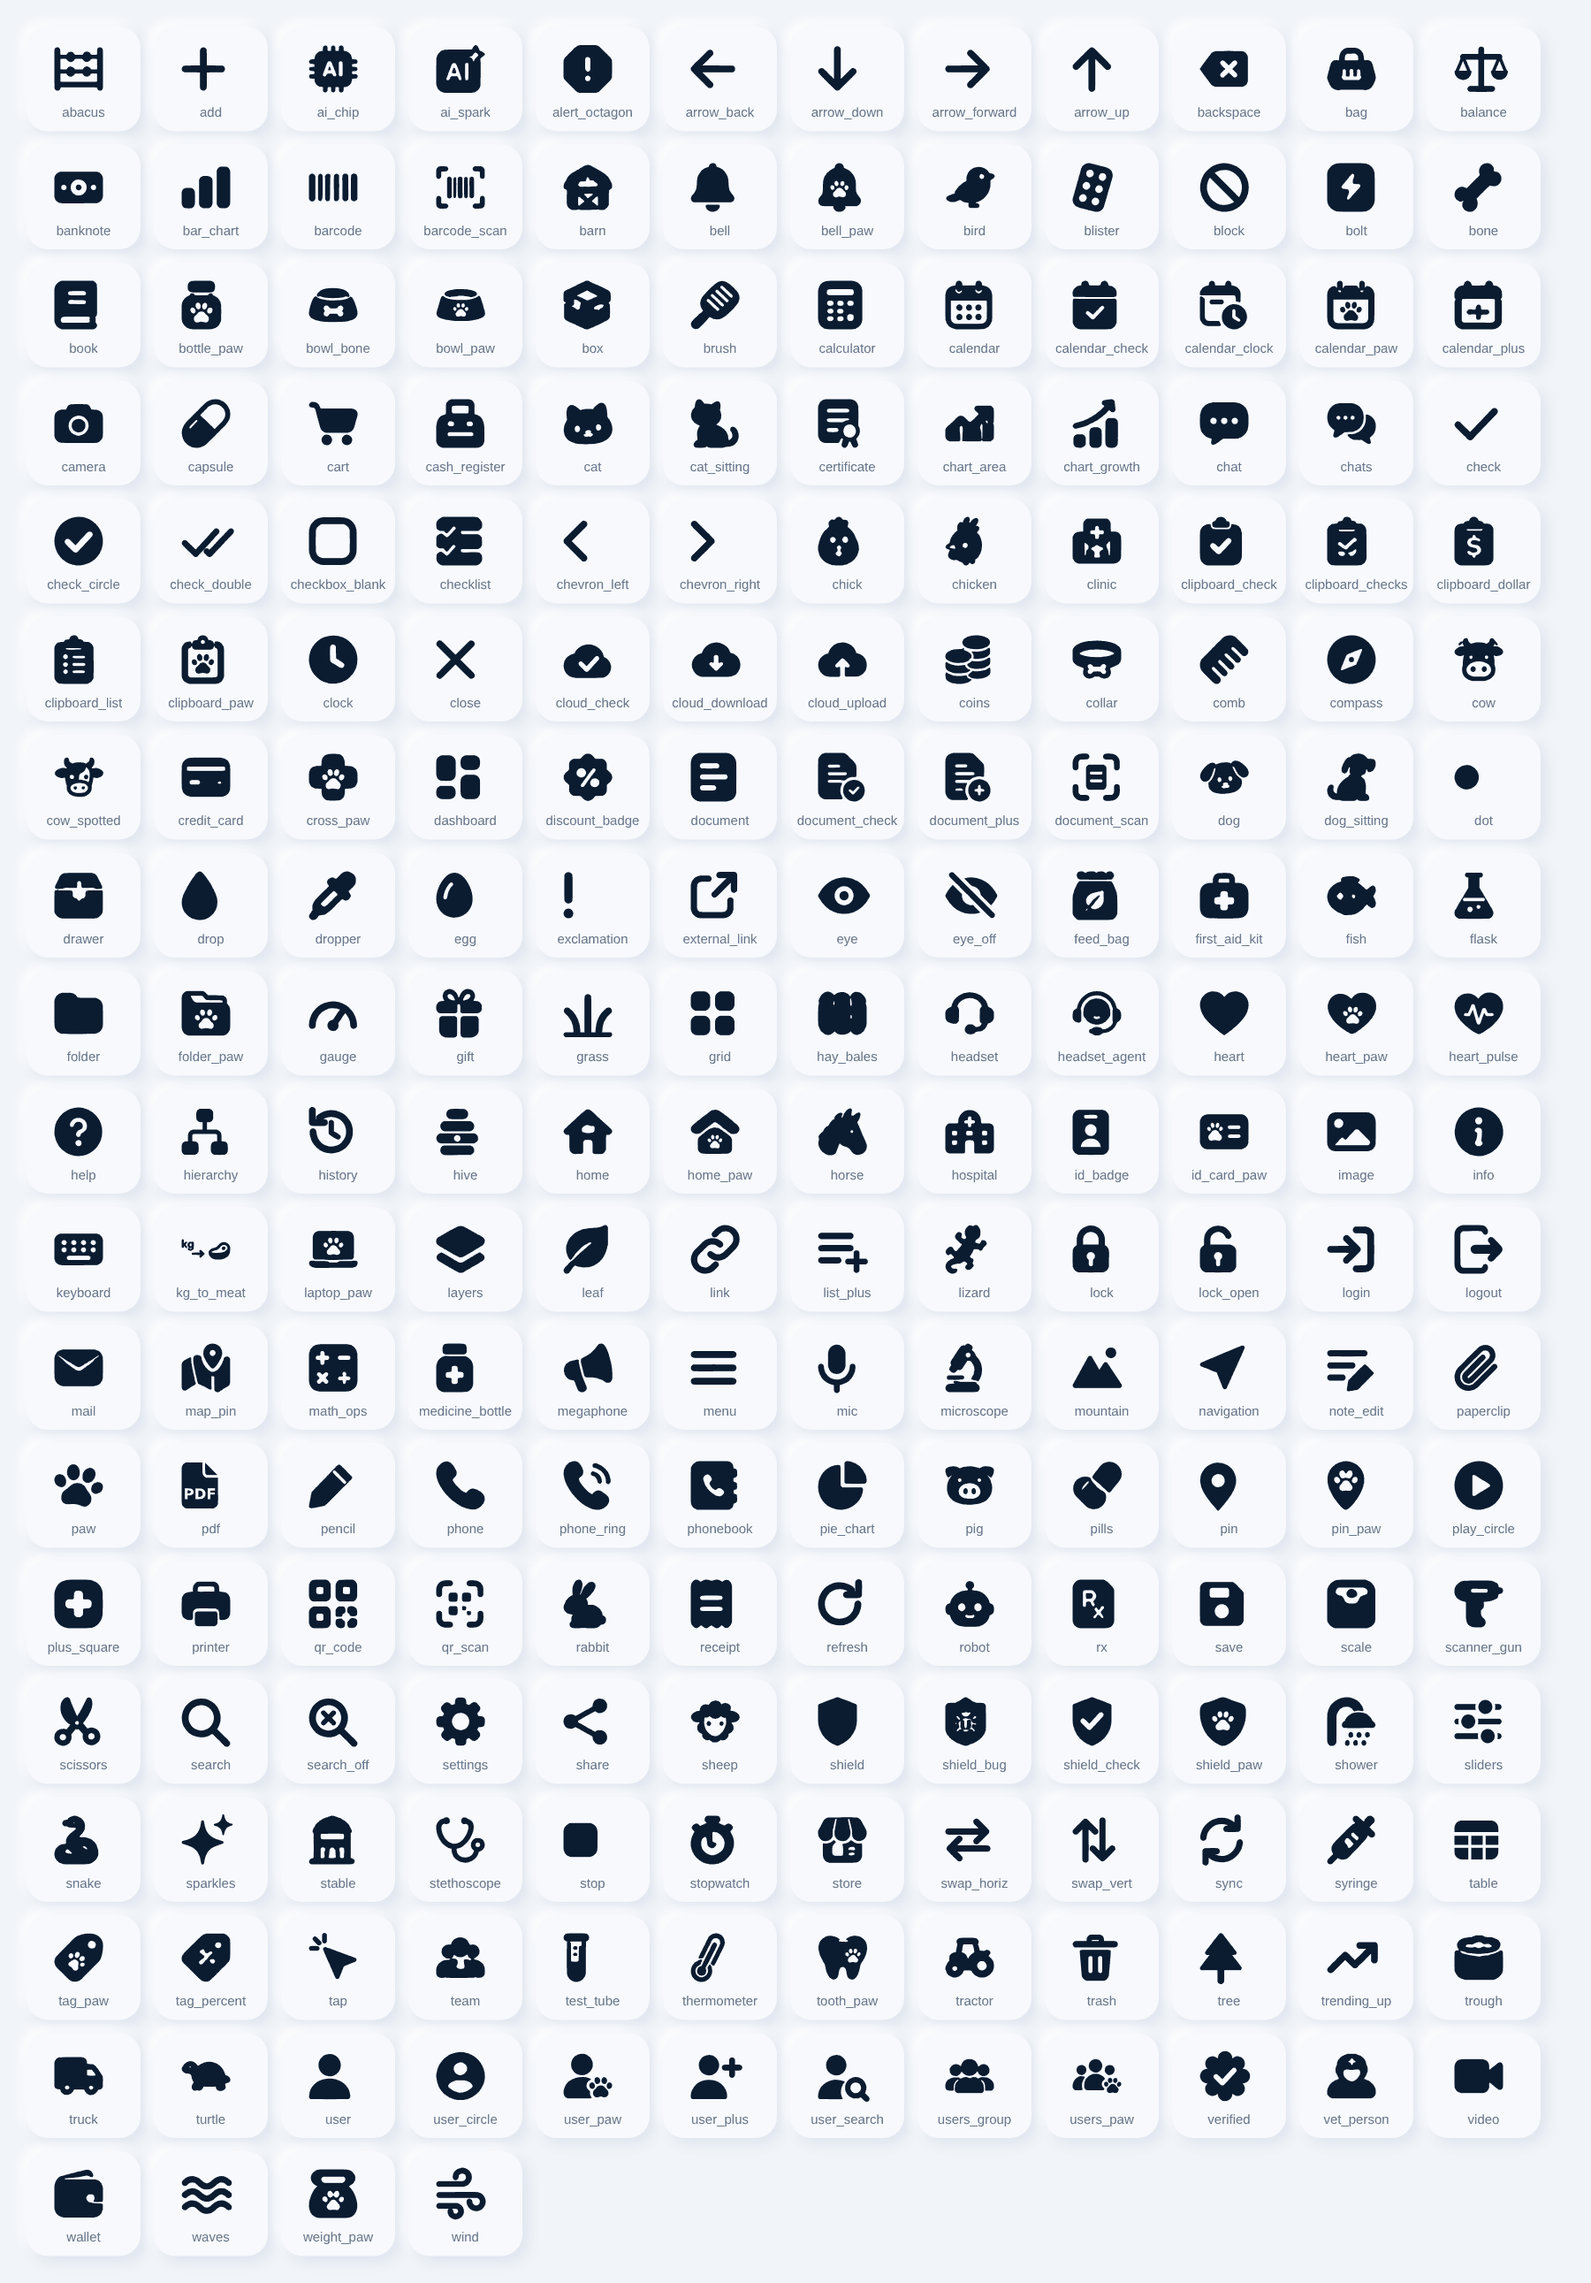
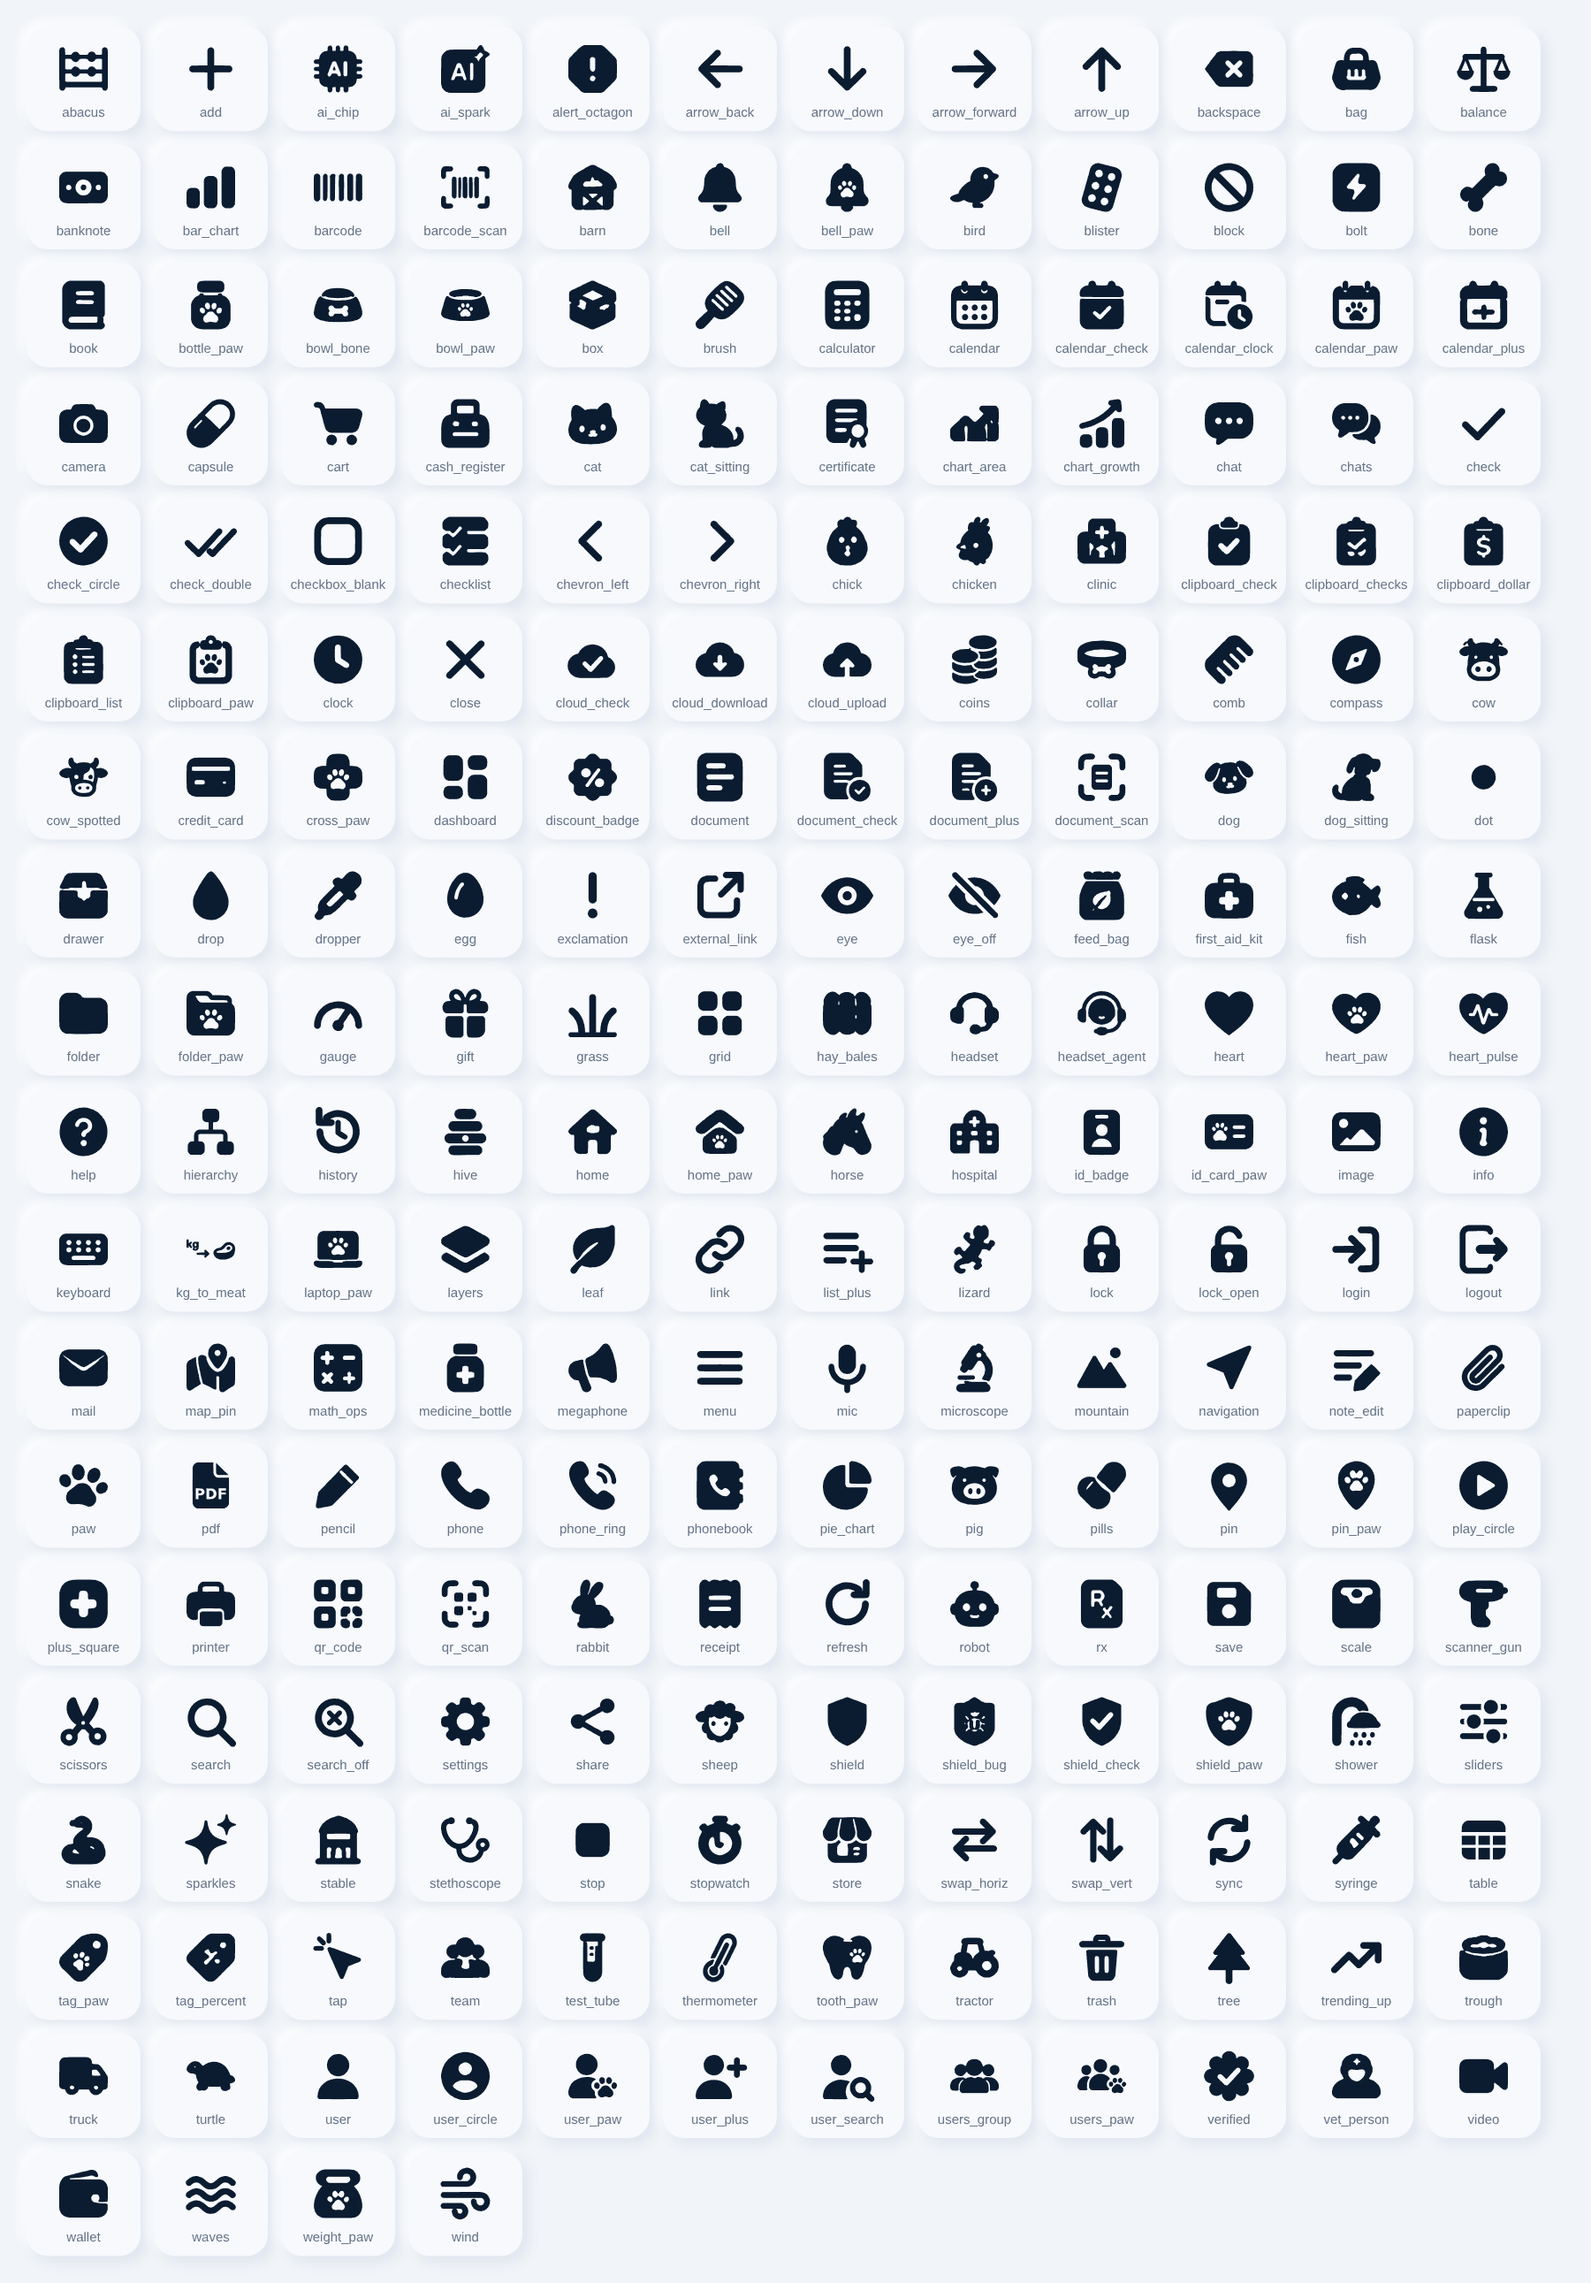
Iconos: salian corridos a la izquierda; la fuente declaraba margen 0
Ale lo vio en el telefono: cada icono quedaba unos 2 puntos a la izquierda
de su etiqueta y de su recuadro.

La tabla hmtx de VetIcons.ttf declaraba margen izquierdo 0 para todos los
glifos, pero el dibujo empieza en x=100 de 1200 (el margen de 2 sobre 24).
Con esa contradiccion el motor de texto desplaza el contorno hasta pegarlo
al borde. build_font.py ahora declara el xMin real de cada glifo.

No lo detecte antes porque solo mire capturas a ojo, y 2 de 24 no se nota
en una hoja de catalogo. La prueba nueva pinta el icono de verdad y mide
donde cae la tinta: con la fuente anterior el centro de la huella caia en
40 de 96; ahora cae en 48.

Verificado: flutter analyze sin incidencias y la suite completa aprobada.

Claude-Session: https://claude.ai/code/session_01AKjGGoZ1axotp7F6hu1tVV

diff --git a/test/vet_icons_test.dart b/test/vet_icons_test.dart
@@ -1,7 +1,10 @@
 import 'dart:convert';
 import 'dart:io';
+import 'dart:ui' as ui;
 
 import 'package:flutter/material.dart';
+import 'package:flutter/rendering.dart';
+import 'package:flutter/services.dart';
 import 'package:flutter_test/flutter_test.dart';
 import 'package:vetdosis_pro/vet_ui/vet_icons.dart';
 
@@ -54,5 +57,65 @@ void main() {
     expect(text.text.style?.fontFamily, 'VetIcons');
     expect(text.text.style?.color, const Color(0xFF7C4DFF));
     expect(text.text.style?.fontSize, 32);
+  });
+
+  // En telefono los iconos salian corridos a la izquierda: la fuente declaraba
+  // margen izquierdo 0 y el motor pegaba cada dibujo al borde. Se pinta de
+  // verdad y se mide donde cae la tinta.
+  testWidgets('el dibujo queda centrado en su caja', (tester) async {
+    await tester.runAsync(
+      () => (FontLoader(
+        'VetIcons',
+      )..addFont(rootBundle.load('assets/fonts/VetIcons.ttf'))).load(),
+    );
+    const size = 96.0;
+    for (final name in const ['paw', 'home', 'calendar', 'calculator']) {
+      final key = GlobalKey();
+      await tester.pumpWidget(
+        Directionality(
+          textDirection: TextDirection.ltr,
+          child: Center(
+            child: RepaintBoundary(
+              key: key,
+              child: ColoredBox(
+                color: const Color(0xFFFFFFFF),
+                child: Icon(
+                  VetIcons.all[name],
+                  size: size,
+                  color: const Color(0xFF000000),
+                ),
+              ),
+            ),
+          ),
+        ),
+      );
+      late double centerX;
+      late double centerY;
+      await tester.runAsync(() async {
+        final boundary =
+            key.currentContext!.findRenderObject() as RenderRepaintBoundary;
+        final image = await boundary.toImage();
+        final data = (await image.toByteData(
+          format: ui.ImageByteFormat.rawRgba,
+        ))!;
+        var minX = image.width, maxX = -1, minY = image.height, maxY = -1;
+        for (var y = 0; y < image.height; y++) {
+          for (var x = 0; x < image.width; x++) {
+            if (data.getUint8((y * image.width + x) * 4) < 128) {
+              if (x < minX) minX = x;
+              if (x > maxX) maxX = x;
+              if (y < minY) minY = y;
+              if (y > maxY) maxY = y;
+            }
+          }
+        }
+        expect(maxX, greaterThan(minX), reason: '$name no pinto nada');
+        centerX = (minX + maxX + 1) / 2;
+        centerY = (minY + maxY + 1) / 2;
+        image.dispose();
+      });
+      expect(centerX, closeTo(size / 2, 1.5), reason: '$name, horizontal');
+      expect(centerY, closeTo(size / 2, 1.5), reason: '$name, vertical');
+    }
   });
 }

diff --git a/tools/icons/build_font.py b/tools/icons/build_font.py
@@ -91,7 +91,14 @@ def main():
     fb.setupGlyphOrder(order)
     fb.setupCharacterMap({codes[n]: n for n in names})
     fb.setupGlyf(glyphs)
-    fb.setupHorizontalMetrics({g: (EM, 0) for g in order})
+    # El margen izquierdo declarado debe ser el xMin real del glifo. Con 0,
+    # el motor de texto desplaza el dibujo hasta pegarlo al borde y todos los
+    # iconos salen corridos unas 2 unidades de 24 hacia la izquierda.
+    glyf = fb.font['glyf']
+    fb.setupHorizontalMetrics({
+        g: (EM, getattr(glyf[g], 'xMin', 0) if glyf[g].numberOfContours else 0)
+        for g in order
+    })
     fb.setupHorizontalHeader(ascent=EM, descent=0)
     fb.setupNameTable({'familyName': 'VetIcons', 'styleName': 'Regular'})
     fb.setupOS2(sTypoAscender=EM, sTypoDescender=0, sTypoLineGap=0,
